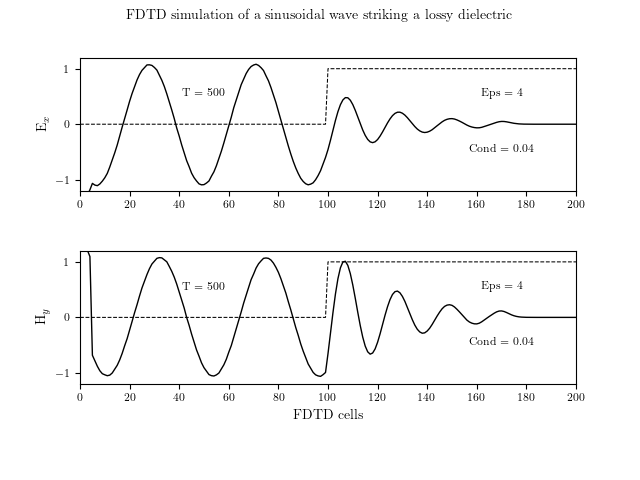
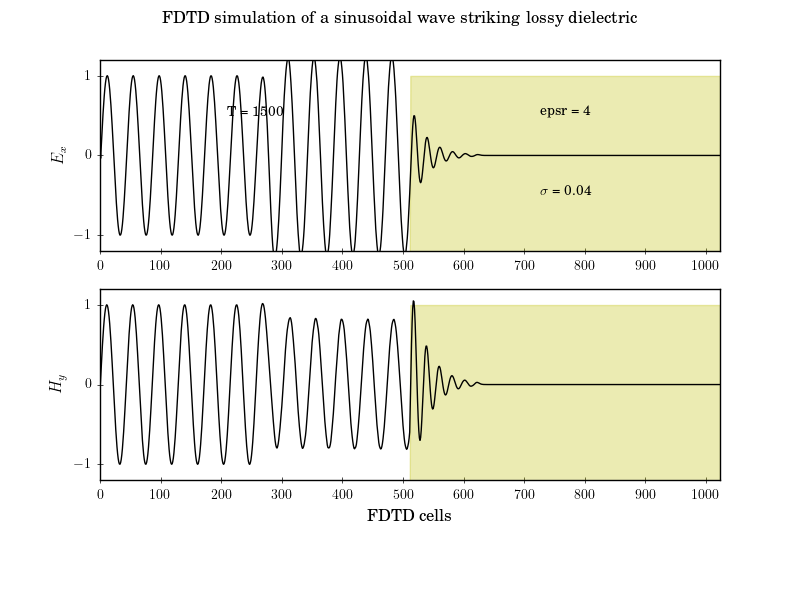
simulation of a propagating sinusoidal striking a lossy dielectric medium

diff --git a/fd1d/program/fd1d_2_1.py b/fd1d/program/fd1d_2_1.py
@@ -3,90 +3,88 @@
 # Name: D.Saravanan
 # Date: 25/11/2021
 
-""" Simulation of a propagating sinusoidal wave striking a lossy dielectric material """
+""" Simulation of a propagating sinusoidal wave of 700 MHz striking a lossy
+dielectric with a dielectric constant of 4 and conductivity of 0.04 (S/m) """
 
-import matplotlib
 import matplotlib.pyplot as plt
 import numpy as np
 
-matplotlib.rcParams["text.usetex"] = True
-matplotlib.rcParams["pgf.texsystem"] = "pdflatex"
-matplotlib.rcParams.update(
-    {
-        "font.family": "serif",
-        "font.size": 8,
-        "axes.labelsize": 10,
-        "axes.titlesize": 10,
-        "figure.titlesize": 10,
-    }
-)
-
-ke = 201
-ex = np.zeros(ke)
-ix = np.zeros(ke)
-Dx = np.zeros(ke)
-hy = np.zeros(ke)
-
-dx = 0.01  # cell size
-dt = dx / 6e8  # time step size
-freq = 700e6  # frequency 700 MHz
-
-boundary_low = [0, 0]
-boundary_high = [0, 0]
-
-# dielectric profile
-epsz = 8.854e-12  # vacuum permittivity (F/m)
-epsr = 4  # relative permittivity
-sigma = 0.04  # conductivity (S/m)
+plt.style.use("classic")
+plt.style.use("../pyplot.mplstyle")
 
 
-gax = np.ones(ke)
-gbx = np.zeros(ke)
-gax[100:] = 1 / (epsr + (sigma * dt / epsz))
-gbx[100:] = sigma * dt / epsz
+def visualize(ns: int, nx: int, epsr: float, sigma: float, gbx: np.ndarray, ex: np.ndarray, hy: np.ndarray) -> None:
+	fig, (ax1, ax2) = plt.subplots(2, sharex=False, gridspec_kw={"hspace": 0.2})
+	fig.suptitle(r"FDTD simulation of a sinusoidal wave striking lossy dielectric")
+	medium = gbx/gbx[nx//2]
+	medium[medium==0] = -1.5
+	ax1.plot(ex, "k", lw=1)
+	ax1.fill_between(range(nx), medium, medium[0], color='y', alpha=0.3)
+	ax1.text(nx/4, 0.5, f"T = {ns}", horizontalalignment="center")
+	ax1.text(3*nx/4, 0.5, f"epsr = {epsr}", horizontalalignment="center")
+	ax1.text(3*nx/4, -0.5, rf"$\sigma$ = {sigma}", horizontalalignment="center")
+	ax1.set(xlim=(0, nx-1), ylim=(-1.2, 1.2), ylabel=r"$E_x$")
+	ax1.set(xticks=range(0, nx+1, round(nx//10,-1)), yticks=np.arange(-1, 1.2, 1))
+	ax2.plot(hy, "k", lw=1)
+	ax2.fill_between(range(nx), medium, medium[0], color='y', alpha=0.3)
+	ax2.set(xlim=(0, nx-1), ylim=(-1.2, 1.2), xlabel=r"FDTD cells", ylabel=r"$H_y$")
+	ax2.set(xticks=range(0, nx+1, round(nx//10,-1)), yticks=np.arange(-1, 1.2, 1))
+	plt.subplots_adjust(bottom=0.2, hspace=0.45)
+	plt.savefig("fd1d_2_1.png")
 
-nsteps = 500
 
-# FDTD loop
-for time_step in range(1, nsteps + 1):
+def sinusoidal(t: int, ddx: float = 0.01, freq: float = 700e6) -> float:
+	dt: float = ddx/6e8  # time step
+	return np.sin(2 * np.pi * freq * dt * t)
 
-    # calculate the Dx flux
-    for k in range(1, ke):
-        Dx[k] = Dx[k] + 0.5 * (hy[k - 1] - hy[k])
 
-    # put a sinusoidal at the low end
-    Dx[5] = Dx[5] + np.sin(2 * np.pi * freq * dt * time_step)
+def field(t: int, nx: int, gax: np.ndarray, gbx: np.ndarray, dx: np.ndarray, ex: np.ndarray, ix: np.ndarray, hy: np.ndarray, bc: np.ndarray):
+	# calculate the Hy field
+	hy[0:nx-1] = hy[0:nx-1] + 0.5 * (ex[0:nx-1] - ex[1:nx])
+	# calculate the electric flux density Dx
+	dx[1:nx] = dx[1:nx] + 0.5 * (hy[0:nx-1] - hy[1:nx])
+	# put a sinusoidal wave at the low end
+	dx[1] = dx[1] + sinusoidal(t, 0.01, 700e6)
+	# calculate the Ex field from Dx
+	ex[1:nx] = gax[1:nx] * (dx[1:nx] - ix[1:nx])
+	ix[1:nx] = ix[1:nx] + gbx[1:nx] * ex[1:nx]
+	# absorbing boundary conditions
+	ex[0], bc[0], bc[1] = bc[0], bc[1], ex[1]
+	ex[nx-1], bc[3], bc[2] = bc[3], bc[2], ex[nx-2]
 
-    # calculate the Ex field from Dx
-    for k in range(1, ke):
-        ex[k] = gax[k] * (Dx[k] - ix[k])
-        ix[k] = ix[k] + gbx[k] * ex[k]
 
-    # absorbing boundary conditions
-    ex[0] = boundary_low.pop(0)
-    boundary_low.append(ex[1])
-    ex[ke - 1] = boundary_high.pop(0)
-    boundary_high.append(ex[ke - 2])
+def dielectric(nx: int, epsr: float = 1, sigma: float = 0.04, ddx: float = 0.01):
+	gax = np.ones(nx, dtype=np.float64)
+	gbx = np.zeros(nx, dtype=np.float64)
+	dt: float = ddx/6e8  # time step
+	eps0: float = 8.854e-12  # vacuum permittivity (F/m)
+	gax[nx//2:] = 1/(epsr + (sigma * dt/eps0))
+	gbx[nx//2:] = sigma * dt/eps0
+	return gax, gbx
 
-    # calculate the Hy field
-    for k in range(ke - 1):
-        hy[k] = hy[k] + 0.5 * (ex[k] - ex[k + 1])
 
-fig, (ax1, ax2) = plt.subplots(2)
-fig.suptitle(r"FDTD simulation of a sinusoidal wave striking a lossy dielectric")
-ax1.plot(ex, "k", lw=1)
-ax1.plot(gbx / gbx[100], "k--", lw=0.75)
-ax1.text(50, 0.5, "T = {}".format(time_step), horizontalalignment="center")
-ax1.text(170, 0.5, "Eps = {}".format(epsr), horizontalalignment="center")
-ax1.text(170, -0.5, "Cond = {}".format(sigma), horizontalalignment="center")
-ax1.set(xlim=(0, 200), ylim=(-1.2, 1.2), ylabel=r"E$_x$")
-ax1.set(xticks=np.arange(0, 220, 20), yticks=np.arange(-1, 1.2, 1))
-ax2.plot(hy, "k", lw=1)
-ax2.plot(gbx / gbx[100], "k--", lw=0.75)
-ax2.text(50, 0.5, "T = {}".format(time_step), horizontalalignment="center")
-ax2.text(170, 0.5, "Eps = {}".format(epsr), horizontalalignment="center")
-ax2.text(170, -0.5, "Cond = {}".format(sigma), horizontalalignment="center")
-ax2.set(xlim=(0, 200), ylim=(-1.2, 1.2), xlabel=r"FDTD cells", ylabel=r"H$_y$")
-ax2.set(xticks=np.arange(0, 220, 20), yticks=np.arange(-1, 1.2, 1))
-plt.subplots_adjust(bottom=0.2, hspace=0.45)
-plt.savefig("fd1d_2_1.png")
+def main():
+
+	nx: int = 1024
+	ns: int = 1500
+
+	dx = np.zeros(nx, dtype=np.float64)
+	ex = np.zeros(nx, dtype=np.float64)
+	ix = np.zeros(nx, dtype=np.float64)
+	hy = np.zeros(nx, dtype=np.float64)
+
+	bc = np.zeros(4, dtype=np.float64)
+
+	ddx: float = 0.01  # cell size (m)
+	epsr: float = 4  # relative permittivity
+	sigma: float = 0.04  # conductivity (S/m)
+	gax, gbx = dielectric(nx, epsr, sigma, ddx)
+
+	for t in range(1, ns+1):
+		field(t, nx, gax, gbx, dx, ex, ix, hy, bc)
+
+	visualize(ns, nx, epsr, sigma, gbx, ex, hy)
+
+
+if __name__ == "__main__":
+	main()
